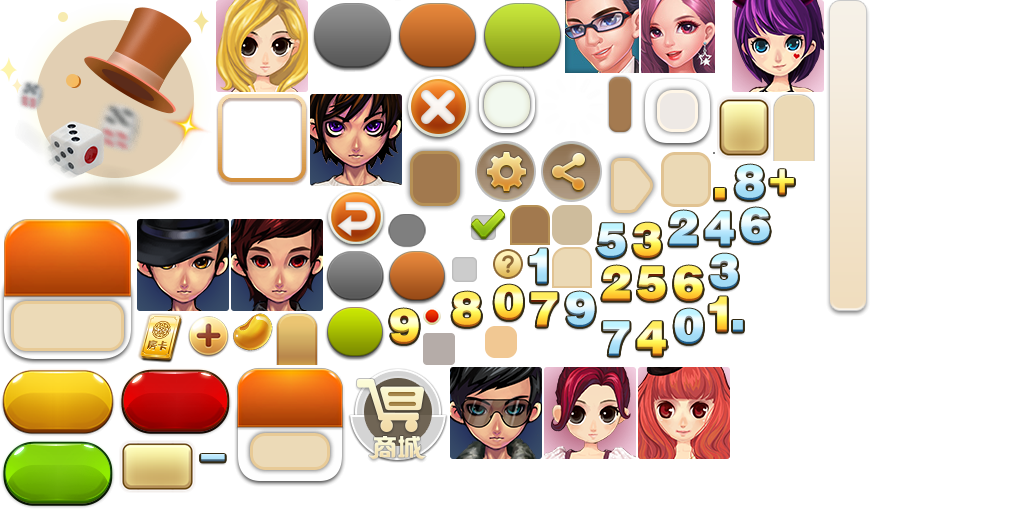
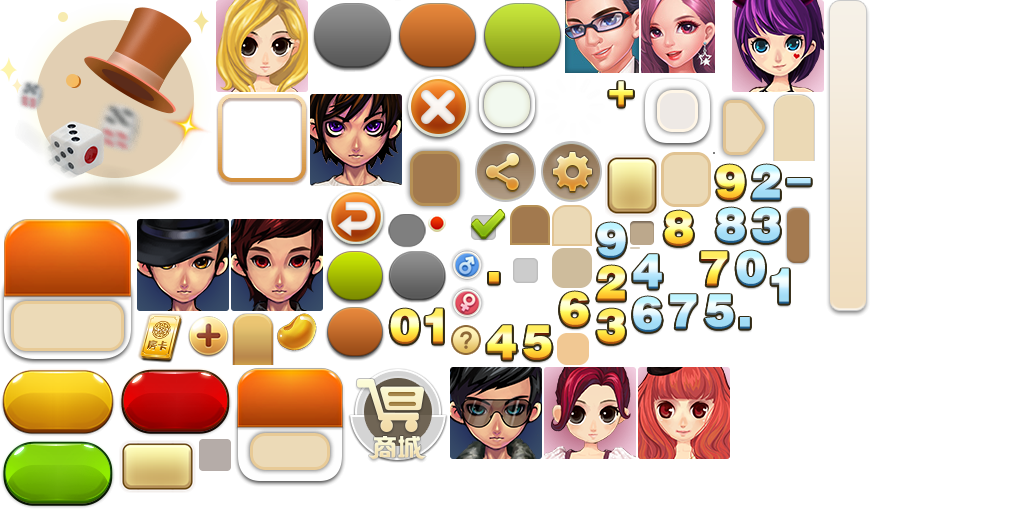
player info view

Changed region(s): [[0.2188, 0.125, 0.8125, 0.7188], [0.1875, 0.8438, 0.25, 0.9375]]

diff --git a/assets/Script/modules/lobby/views/playerInfo/PlayerInfoView.ts b/assets/Script/modules/lobby/views/playerInfo/PlayerInfoView.ts
@@ -1,14 +1,5 @@
-import { CommonFunction, GResLoader, LobbyModuleInterface, Logger } from "../../lcore/LCoreExports";
-import { proto } from "../../proto/protoLobby";
+import { CommonFunction, GResLoader } from "../../lcore/LCoreExports";
 
-interface PropData {
-    image: string;
-    num: number;
-    id: number;
-}
-// tslint:disable-next-line:no-empty-interface
-interface RoomInterface {
-}
 interface PlayerInfo {
     userID: string;
     chairID: number;
@@ -33,158 +24,65 @@ interface PlayerInfo {
 export class PlayerInfoView extends cc.Component {
     private view: fgui.GComponent = null;
     private playerInfo: PlayerInfo;
-    private isOther: boolean;
-    private lobbyModule: LobbyModuleInterface;
 
-    // private room: fgui.GObject;
-    private nameText: fgui.GTextField;
-    private idText: fgui.GTextField;
+    private win: fgui.Window;
 
-    private onMessageFunc: Function = null;
-    private ipText: fgui.GTextField;
-    private xinNumText: fgui.GTextField;
-    private zuanNumText: fgui.GTextField;
-    private headLoader: fgui.GLoader;
-    private sexImage: fgui.GLoader;
-    private kickoutBtn: fgui.GButton;
-    private propList: fgui.GList;
-    private addressText: fgui.GTextField;
-    private numberText: fgui.GTextField;
-    private dataList: PropData[];
-    private dataListForOpponents: PropData[];
-
-    public showUserInfoView(loader: GResLoader, room: RoomInterface, playerInfo: PlayerInfo, pos: cc.Vec2, isOther: boolean): void {
-        if (this.view === null) {
-            loader.fguiAddPackage("lobby/fui_player_info/lobby_player_info");
-            const view = fgui.UIPackage.createObject("lobby_player_info", "player_info_view").asCom;
-            this.view = view;
-            this.initView();
-
-            if (this.onMessageFunc === null) {
-                this.lobbyModule = <LobbyModuleInterface>this.node.getParent().getComponent("LobbyModule");
-            }
-
-            Logger.debug("showUserInfoView view is nil");
-        }
+    public show(loader: GResLoader, playerInfo: PlayerInfo): void {
 
         this.playerInfo = playerInfo;
-        this.isOther = isOther;
+        loader.fguiAddPackage("lobby/fui_room_other_view/room_other_view");
+        const view = fgui.UIPackage.createObject("room_other_view", "playerInfo").asCom;
 
-        this.updateView();
+        CommonFunction.setViewInCenter(view);
 
-        fgui.GRoot.inst.showPopup(this.view);
-        this.view.setPosition(pos.x, pos.y);
+        const mask = view.getChild("mask");
+        CommonFunction.setBgFullScreenSize(mask);
+
+        this.view = view;
+        this.initView(playerInfo);
+
+        const win = new fgui.Window();
+        win.contentPane = view;
+        win.modal = true;
+
+        this.win = win;
+        this.win.show();
     }
 
     protected onDestroy(): void {
-        if (this.onMessageFunc !== null) {
-            this.lobbyModule.eventTarget.off(`${proto.lobby.MessageCode.OPChat}`, this.onMessageFunc);
-            this.onMessageFunc = null;
-        }
+        this.win.hide();
+        this.win.dispose();
 
-        this.view.dispose();
     }
 
-    private initView(): void {
-        // info
-        this.nameText = this.view.getChild("name").asTextField;
-        this.idText = this.view.getChild("id").asTextField;
-        this.ipText = this.view.getChild("ip").asTextField;
-        this.addressText = this.view.getChild("address").asTextField;
-        this.numberText = this.view.getChild("number").asTextField;
-        this.xinNumText = this.view.getChild("xinNum").asTextField;
-        this.zuanNumText = this.view.getChild("zuanNum").asTextField;
-        this.sexImage = this.view.getChild("sex").asLoader;
-        const head = this.view.getChild("head").asCom;
-        this.headLoader = head.getChild("n0").asLoader;
-        //  button
-        this.kickoutBtn = this.view.getChild("kickoutBtn").asButton;
-        this.kickoutBtn.onClick(this.onKickoutBtnClick, this);
-        // list
-        this.propList = this.view.getChild("list").asList;
-        this.propList.itemRenderer = (index: number, obj: fgui.GObject) => {
-            this.renderPropListItem(index, obj);
-        };
+    private initView(playerInfo: PlayerInfo): void {
 
-        this.propList.on(fgui.Event.CLICK_ITEM, this.onPropListItemClick, this);
+        const closeBtn = this.view.getChild("closeBtn");
+        closeBtn.onClick(this.onCloseBtnClick, this);
 
-        this.propList.setVirtual();
+        const name = this.view.getChild("name");
+        name.text = `昵称：${playerInfo.name}`;
 
-        this.dataListForOpponents = [];
-        const images: string[] = ["dj_bb", "dj_jd", "dj_qj", "dj_tuoxie", "dj_ganbei", "dj_hj", "dj_meigui", "dj_mmd"];
-        const ids: number[] = [6, 3, 5, 4, 2, 7, 1, 8];
-        for (let i = 0; i < 8; i++) {
-            const data = {
-                image: images[i],
-                num: i,
-                id: ids[i]
-            };
+        const id = this.view.getChild("id");
+        id.text = `ID：${playerInfo.userID}`;
 
-            this.dataListForOpponents.push(<PropData>data);
-        }
+        const loader = this.view.getChild("loader").asLoader;
+        CommonFunction.setHead(loader, playerInfo.headIconURI);
+
+        const douText = this.view.getChild("douText");
+        const fkText = this.view.getChild("fkText");
+
+        const count = this.view.getChild("count");
+
+        const addFriendBtn = this.view.getChild("addFriendBtn").asButton;
+        const deleteFriendBtn = this.view.getChild("deleteFriendBtn").asButton;
+
+        const genderCtrl = this.view.getController("gender");
+        const friendCtrl = this.view.getController("friend");
+
     }
-
-    private updatePropList(): void {
-        this.dataList = [];
-        if (this.isOther) {
-            this.dataList = this.dataListForOpponents;
-        }
-
-        const num = this.dataList.length;
-        this.propList.numItems = num;
-        this.propList.resizeToFit(num);
-    }
-
-    private updateView(): void {
-        this.kickoutBtn.visible = this.isOther;
-        this.updatePropList();
-        //  info
-        let sex = "y_nv";
-        if (this.playerInfo.gender === 1) {
-            sex = "y_nan";
-        }
-        //头像
-        CommonFunction.setHead(this.headLoader, this.playerInfo.headIconURI, this.playerInfo.gender);
-
-        this.sexImage.url = `ui://lobby_player_info/${sex}`;
-        this.nameText.text = this.playerInfo.nick;
-        this.idText.text = `ID:${this.playerInfo.userID}`;
-        this.ipText.text = `IP:${this.playerInfo.ip}`;
-        this.addressText.text = `地址:${this.playerInfo.location}`;
-        this.xinNumText.text = `${this.playerInfo.charm}`;
-        this.zuanNumText.text = `${this.playerInfo.diamond}`;
-        this.numberText.text = "";
-    }
-
-    // private addMsg(msg: ByteBuffer): void {
-    //     Logger.debug("msg:", msg);
-    // }
-
-    // private onMessage(msg: ByteBuffer): void {
-    //     this.addMsg(msg);
-    // }
-
-    private onKickoutBtnClick(): void {
-        Logger.debug("onKickoutBtnClick");
-    }
-
-    private renderPropListItem(index: number, gObject: fgui.GObject): void {
-        const data = this.dataList[index];
-        const obj = gObject.asCom;
-        const icon = obj.getChild("icon").asLoader;
-        const xinNum = obj.getChild("xinNum");
-        const zuanNum = obj.getChild("zuanNum");
-        obj.name = `${data.id}`;
-        xinNum.text = `${data.num * 2}`;
-        zuanNum.text = `${data.num * 2}`;
-        icon.url = `ui://lobby_player_info/${data.image}`;
-    }
-
-    private onPropListItemClick(clickItem: fgui.GObject): void {
-        Logger.debug(`clickItem.data.name:${clickItem.asCom.name}, num:${parseInt(clickItem.asCom.name, 10)}`);
-        // this.room.sendDonate(parseInt(clickItem.asCom.name, 10), this.playerInfo.chairID);
-        // fgui.GRoot.inst.hidePopup(this.view);
-        // this.room.sendDonate(onClickItem.data.name);
+    private onCloseBtnClick(): void {
+        this.destroy();
     }
 
 }

diff --git a/assets/Script/modules/gamea/PlayerA.ts b/assets/Script/modules/gamea/PlayerA.ts
@@ -427,6 +427,8 @@ export class PlayerA {
 
     public updateByPlayerInfo(playerInfo: protoHH.casino.Itable_player, chairID: number): void {
         this.state = playerInfo.status;
+
+        Logger.debug("updateByPlayerInfo = playerInfo ", playerInfo);
         this.playerInfo = new PlayerInfo(playerInfo, chairID);
         if (this.playerInfo.scoreTotal !== null) {
             this.totalScores = this.playerInfo.scoreTotal;
@@ -693,25 +695,14 @@ export class PlayerA {
         this.playerView.showChatMsg(chatData);
     }
     public onPlayerInfoClick(): void {
-        // const pos = { x = this.playerView.userInfoPos.x, y = this.playerView.userInfoPos.y }
-        // playerInfoView.showUserInfoView(this.playerInfo, pos, this.isMe() == false, this.host)
-
-        const pos = new cc.Vec2(this.playerView.getUserInfoPos().x, this.playerView.getUserInfoPos().y);
-        // const pos = new cc.Vec2(0, 0);
-        // const playerInfoString = JSON.stringify(this.playerInfo);
-        // playerInfoView.showUserInfoView(self.playerInfo, pos, self:isMe() == false)
-
         const roomHost = this.host.getRoomHost();
-        if (roomHost === null) {
-            Logger.debug("roomHost === null");
-        }
 
         let playerInfoView = roomHost.component.getComponent(PlayerInfoView);
         if (playerInfoView === null) {
             playerInfoView = roomHost.component.addComponent(PlayerInfoView);
         }
 
-        playerInfoView.showUserInfoView(roomHost.getLobbyModuleLoader(), this.host, this.playerInfo, pos, this.isMe() === false);
+        playerInfoView.show(roomHost.getLobbyModuleLoader(), this.playerInfo);
     }
 
     /**

diff --git a/assets/Script/modules/gameb/Player.ts b/assets/Script/modules/gameb/Player.ts
@@ -427,6 +427,7 @@ export class Player {
 
     public updateByPlayerInfo(playerInfo: protoHH.casino.Itable_player, chairID: number): void {
         this.state = playerInfo.status;
+        Logger.debug("updateByPlayerInfo = playerInfo ", playerInfo);
         this.playerInfo = new PlayerInfo(playerInfo, chairID);
         if (this.playerInfo.scoreTotal !== null) {
             this.totalScores = this.playerInfo.scoreTotal;
@@ -697,25 +698,14 @@ export class Player {
         this.playerView.showChatMsg(chatData);
     }
     public onPlayerInfoClick(): void {
-        // const pos = { x = this.playerView.userInfoPos.x, y = this.playerView.userInfoPos.y }
-        // playerInfoView.showUserInfoView(this.playerInfo, pos, this.isMe() == false, this.host)
-
-        const pos = new cc.Vec2(this.playerView.getUserInfoPos().x, this.playerView.getUserInfoPos().y);
-        // const pos = new cc.Vec2(0, 0);
-        // const playerInfoString = JSON.stringify(this.playerInfo);
-        // playerInfoView.showUserInfoView(self.playerInfo, pos, self:isMe() == false)
 
         const roomHost = this.host.getRoomHost();
-        if (roomHost === null) {
-            Logger.debug("roomHost === null");
-        }
-
         let playerInfoView = roomHost.component.getComponent(PlayerInfoView);
         if (playerInfoView === null) {
             playerInfoView = roomHost.component.addComponent(PlayerInfoView);
         }
 
-        playerInfoView.showUserInfoView(roomHost.getLobbyModuleLoader(), this.host, this.playerInfo, pos, this.isMe() === false);
+        playerInfoView.show(roomHost.getLobbyModuleLoader(), this.playerInfo);
     }
 
     /**

diff --git a/assets/Script/modules/gamea/PlayerViewA.ts b/assets/Script/modules/gamea/PlayerViewA.ts
@@ -857,7 +857,7 @@ export class PlayerViewA {
     //显示玩家头像
     public showPlayerInfo(playerInfo: PlayerInfo): void {
         this.head.headView.visible = true;
-        // this.head.headView.onClick(this.player.onPlayerInfoClick, this.player);
+        this.head.headView.onClick(this.player.onPlayerInfoClick, this.player);
 
         this.head.nameText.text = CommonFunction.nameFormatWithCount(this.player.mNick, 6);
         this.head.nameText.visible = true;

diff --git a/assets/Script/modules/gameb/PlayerView.ts b/assets/Script/modules/gameb/PlayerView.ts
@@ -859,7 +859,7 @@ export class PlayerView {
     //显示玩家头像
     public showPlayerInfo(playerInfo: PlayerInfo): void {
         this.head.headView.visible = true;
-        // this.head.headView.onClick(this.player.onPlayerInfoClick, this.player);
+        this.head.headView.onClick(this.player.onPlayerInfoClick, this.player);
 
         this.head.nameText.text = CommonFunction.nameFormatWithCount(this.player.mNick, 6);
         this.head.nameText.visible = true;
